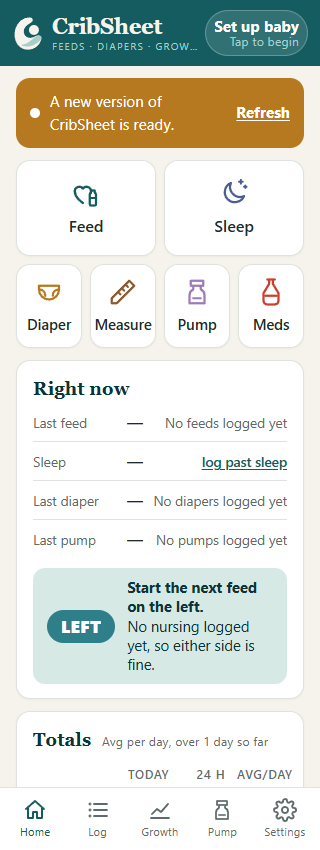
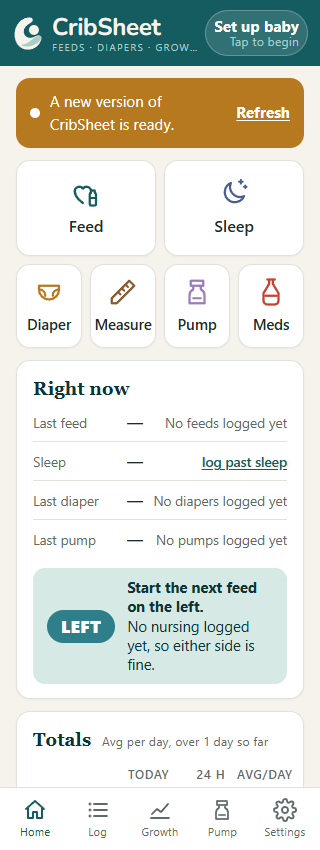
Use Nunito for the CribSheet header wordmark

Changed region(s): [[0.1562, 0.0, 0.5938, 0.0612]]

diff --git a/index.html b/index.html
@@ -14,7 +14,9 @@
 <link rel="icon" href="favicon.svg" type="image/svg+xml">
 <link rel="apple-touch-icon" href="apple-touch-icon.png">
 <link rel="manifest" href="site.webmanifest">
+<link rel="preload" href="brand/fonts/cribsheet-nunito-bold.woff2" as="font" type="font/woff2" crossorigin>
 <style>
+@font-face{font-family:"CribSheet Nunito";src:url("brand/fonts/cribsheet-nunito-bold.woff2") format("woff2");font-style:normal;font-weight:700;font-display:swap}
 :root{
   --teal:#145C60; --teal-dark:#0e4548; --teal-ink:#0c3436; --sea:#A7CEC7; --sea-light:#d7e9e5; --ivory:#F5F3EC;
   --bg:#F5F3EC; --card:#ffffff; --ink:#1f2b2b; --muted:#5f6b6a; --line:#dfe3dd; --soft:#eef1ec;
@@ -47,7 +49,7 @@ button{cursor:pointer;touch-action:manipulation}
 header.top{background:var(--teal);color:#fff;padding:calc(10px + env(safe-area-inset-top)) 16px 10px;display:flex;align-items:center;gap:12px;position:sticky;top:0;z-index:20}
 header.top .mark{width:40px;height:40px;flex:0 0 auto}
 header.top .title{display:flex;flex-direction:column;line-height:1.15;min-width:132px;overflow:hidden;flex:1 1 auto}
-header.top .title h1{margin:0;font-family:Georgia,"Times New Roman",serif;font-size:1.55rem;letter-spacing:-.5px;font-weight:700;color:var(--ivory)}
+header.top .title h1{margin:0;font-family:"CribSheet Nunito",Arial,sans-serif;font-size:1.7rem;letter-spacing:-.25px;font-weight:700;color:var(--ivory)}
 header.top .title span{font-size:.62rem;color:var(--sea);letter-spacing:1.3px;text-transform:uppercase;white-space:nowrap;overflow:hidden;text-overflow:ellipsis}
 header.top .baby{margin-left:auto;background:rgba(255,255,255,.12);border:1px solid rgba(255,255,255,.25);color:#fff;border-radius:999px;padding:6px 12px;text-align:right;line-height:1.2;max-width:min(44%,calc(100% - 196px));min-height:40px;min-width:0;flex:0 0 auto}
 header.top .baby{display:flex;align-items:center;gap:8px}
@@ -60,7 +62,7 @@ header.top .baby small{font-size:.72rem;color:var(--sea);letter-spacing:.5px;whi
   header.top{padding-left:12px;padding-right:12px;gap:8px}
   header.top .mark{width:32px;height:36px}
   header.top .title{min-width:120px}
-  header.top .title h1{font-size:1.4rem}
+  header.top .title h1{font-size:1.5rem}
   header.top .baby{padding-left:8px;padding-right:8px;max-width:calc(100% - 168px)}
 }
 

diff --git a/sw.js b/sw.js
@@ -1,7 +1,7 @@
 /* CribSheet service worker: caches the app shell so it opens offline. */
 importScripts('version.js');
 const VERSION = 'cribsheet-' + self.CRIBSHEET_VERSION.version;
-const SHELL = ['./', './index.html', './app.js', './firebase-config.js', './growth-data.js', './version.js', './site.webmanifest', './brand/cribsheet-symbol-ivory.svg', './brand/cardone-horizontal-white.svg', './favicon.ico', './favicon.svg', './favicon-192.png', './favicon-512.png', './apple-touch-icon.png'];
+const SHELL = ['./', './index.html', './app.js', './firebase-config.js', './growth-data.js', './version.js', './site.webmanifest', './brand/cribsheet-symbol-ivory.svg', './brand/fonts/cribsheet-nunito-bold.woff2', './brand/cardone-horizontal-white.svg', './favicon.ico', './favicon.svg', './favicon-192.png', './favicon-512.png', './apple-touch-icon.png'];
 
 self.addEventListener('install', ev => {
   ev.waitUntil(caches.open(VERSION).then(c => c.addAll(SHELL)).then(() => self.skipWaiting()));

diff --git a/version.js b/version.js
@@ -1,3 +1,3 @@
 /* Bump this on every release. The page shows it in the footer, and the service worker
  * uses it as its cache name, so changing it is what tells installed phones a new version exists. */
-self.CRIBSHEET_VERSION = { version: '1.0.3', built: '2026-10-13' };
+self.CRIBSHEET_VERSION = { version: '1.0.4', built: '2026-10-13' };

diff --git a/brand/BRANDING.md b/brand/BRANDING.md
@@ -4,12 +4,12 @@ Approved direction: option 1 from the logo concept board, October 13, 2026.
 
 ## Artwork and lettering
 
-The mark combines a C-shaped swaddle, a circular baby head, and a seafoam blanket fold. Production artwork is flat SVG, redrawn from the approved concept for clear rendering at small sizes. The generated concept's lettering is interpreted using bold Georgia with slightly tightened spacing; no external font is needed, including offline.
+The mark combines a C-shaped swaddle, a circular baby head, and a seafoam blanket fold. Production artwork is flat SVG, redrawn from the approved concept for clear rendering at small sizes. The wordmark uses locally bundled Nunito Bold (weight 700), explicitly selected by Scott after comparing sans-serif and serif alternatives. It remains accessible text and works offline without contacting a font service.
 
 - Deep teal: `#145C60`
 - Seafoam: `#A7CEC7`
 - Warm ivory: `#F5F3EC`
-- Header wordmark: Georgia bold, 1.55rem, -0.5px letter spacing.
+- Header wordmark: Nunito Bold, 1.7rem (1.5rem at widths up to 360px), -0.25px letter spacing. Font and license are in `brand/fonts/`.
 - Header mark: `cribsheet-symbol-ivory.svg` on the existing teal header.
 - Light-background alternative: `cribsheet-symbol-teal.svg`.
 - App icon source: `cribsheet-app-icon.svg` with an opaque, full-bleed teal background. The operating system supplies the installed icon's corner mask.
@@ -31,12 +31,14 @@ This regenerates the two symbol SVGs, app-icon SVG, browser SVG/ICO, 192px and 5
 - Kept the serif wordmark as real text for accessibility, using the styling above. The adjacent mark has empty alt text to avoid repeating the app name.
 - Replaced all existing favicon and installed-app icon files, preserving their filenames and manifest references.
 - Updated the service worker shell to cache the new header symbol and the ICO favicon.
-- Bumped version.js from 1.0.2 to 1.0.3, dated 2026-10-13, so existing installs receive the usual update prompt after deployment.
+- Initial icon release: 1.0.3. Nunito header release: 1.0.4, dated 2026-10-13. The font is preloaded and included in the offline shell.
 - Updated README.md to describe the app's own icon assets.
 - Cardone Medical Consulting's footer branding remains in place.
 - No app logic, baby data, sync configuration, tracking functions, or medical content changed.
-- Changes are local, not committed, pushed, or deployed. Use the project's normal release process to publish them. Home-screen icon refresh timing depends on the operating system; an existing install may retain its cached icon until it is re-added.
+- The 1.0.4 Nunito header change is committed locally; it has not been pushed or deployed. Use the project's normal release process to publish them. Home-screen icon refresh timing depends on the operating system; an existing install may retain its cached icon until it is re-added.
 
 ## Validation
 
 Checked the header at 320, 360, 390, and 1280px, light and dark modes, and long baby names with a profile image. Reserved space for the wordmark prevents clipping on narrow screens. Verified icon dimensions and offline-cache asset paths. App logic was not modified.
+
+Font correction validation (1.0.4): confirmed the actual Nunito font loaded at 320, 360, 390, and 1280px with no wordmark clipping or page overflow. Confirmed the font is in the service worker cache and loads after an offline page reload. Updated light/dark screenshots in brand/.

diff --git a/brand/fonts/README.md b/brand/fonts/README.md
@@ -1,0 +1,9 @@
+# CribSheet wordmark font
+
+Nunito Bold, weight 700. SIL Open Font License; see OFL-Nunito.txt.
+
+Source: https://github.com/google/fonts/tree/main/ofl/nunito
+Retrieved: 2026-10-13
+Google Fonts request: https://fonts.googleapis.com/css2?family=Nunito:wght@700&text=CribSheet&display=swap
+
+This compact WOFF2 subset contains only the characters in CribSheet. It is used exclusively for the wordmark, hosted locally, preloaded, and cached for offline use. No runtime Google Fonts connection is required.
